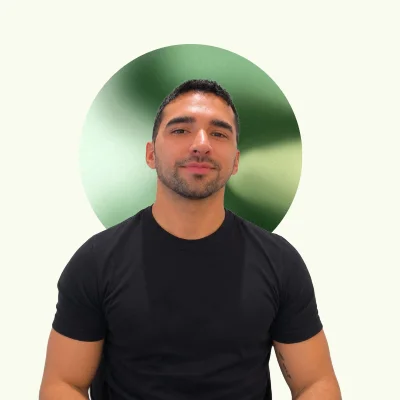
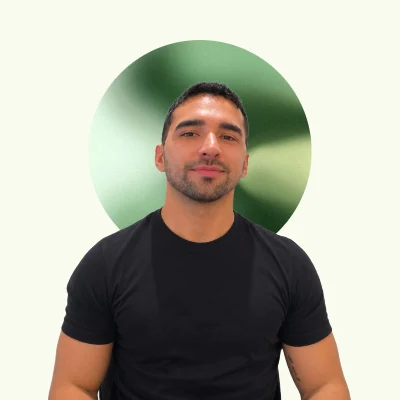
Nosotros: fotos de los paneles de 'El adulto como centro' y foto actualizada de Franco

Changed region(s): [[0.09, 0.09, 0.78, 1.0], [0.66, 0.6, 0.9, 1.0]]

diff --git a/quienes-somos.html b/quienes-somos.html
@@ -128,6 +128,9 @@
   .adulto-panel[data-pilar="hibrida"]{background:linear-gradient(135deg,#003E47,#2a6f7a)}
   .adulto-panel[data-pilar="team"]{background:linear-gradient(135deg,#349375,#003E47)}
   .adulto-panel[data-pilar="reporting"]{background:linear-gradient(135deg,#2a6f7a,#349375)}
+  .adulto-panel[data-pilar="andragogia"]{background-image:url(assets/nosotros/pilar-andragogia.webp)}
+  .adulto-panel[data-pilar="hibrida"]{background-image:url(assets/nosotros/pilar-hibrida.webp)}
+  .adulto-panel[data-pilar="team"]{background-image:url(assets/nosotros/pilar-team.webp)}
   .adulto-panel{background-size:cover;background-position:center}
   .adulto-panel-overlay{position:absolute;inset:0;background:linear-gradient(0deg,rgba(0,33,38,0.78) 0%,rgba(0,33,38,0.15) 55%,rgba(0,33,38,0.35) 100%);pointer-events:none}
   .adulto-panel-copy{position:absolute;left:24px;right:24px;bottom:22px;opacity:0;transform:translateY(8px);transition:opacity 350ms ease 120ms,transform 450ms cubic-bezier(.16,1,.3,1) 120ms}
